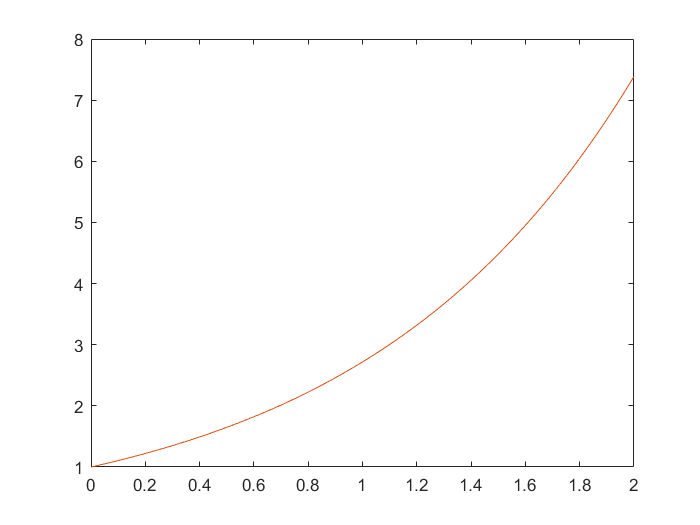
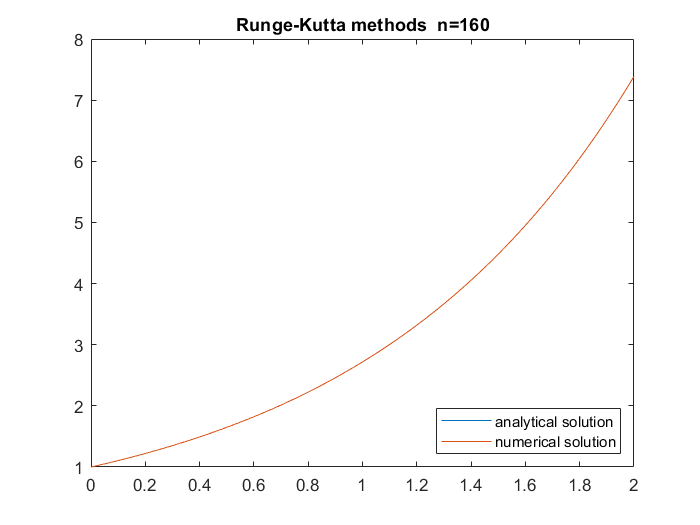
RK圖

Changed region(s): [[0.69, 0.7924, 0.9, 0.8533], [0.33, 0.0305, 0.72, 0.061]]

diff --git a/5.3/RK/RK.m b/5.3/RK/RK.m
@@ -6,7 +6,7 @@
 %Y4=yn+((1/2)*(yn+(1/2)*yn*k)*k)*k
 %yn+(k/6)*(Y1+2*Y2+2*Y3+Y4)
 T=2;
-m=10;
+m=160;
 h=T/m;
 t=0:h:T;
 % f(y,t) = y;
@@ -20,6 +20,8 @@ for n=1:length(t)-1
 end
 
 plot(t,y,t,exp(t))
+title('Runge-Kutta methods  n=160')
+legend('analytical solution', 'numerical solution','Location','SouthEast')
 
 ana=exp(t);
 error=abs(y-ana);
